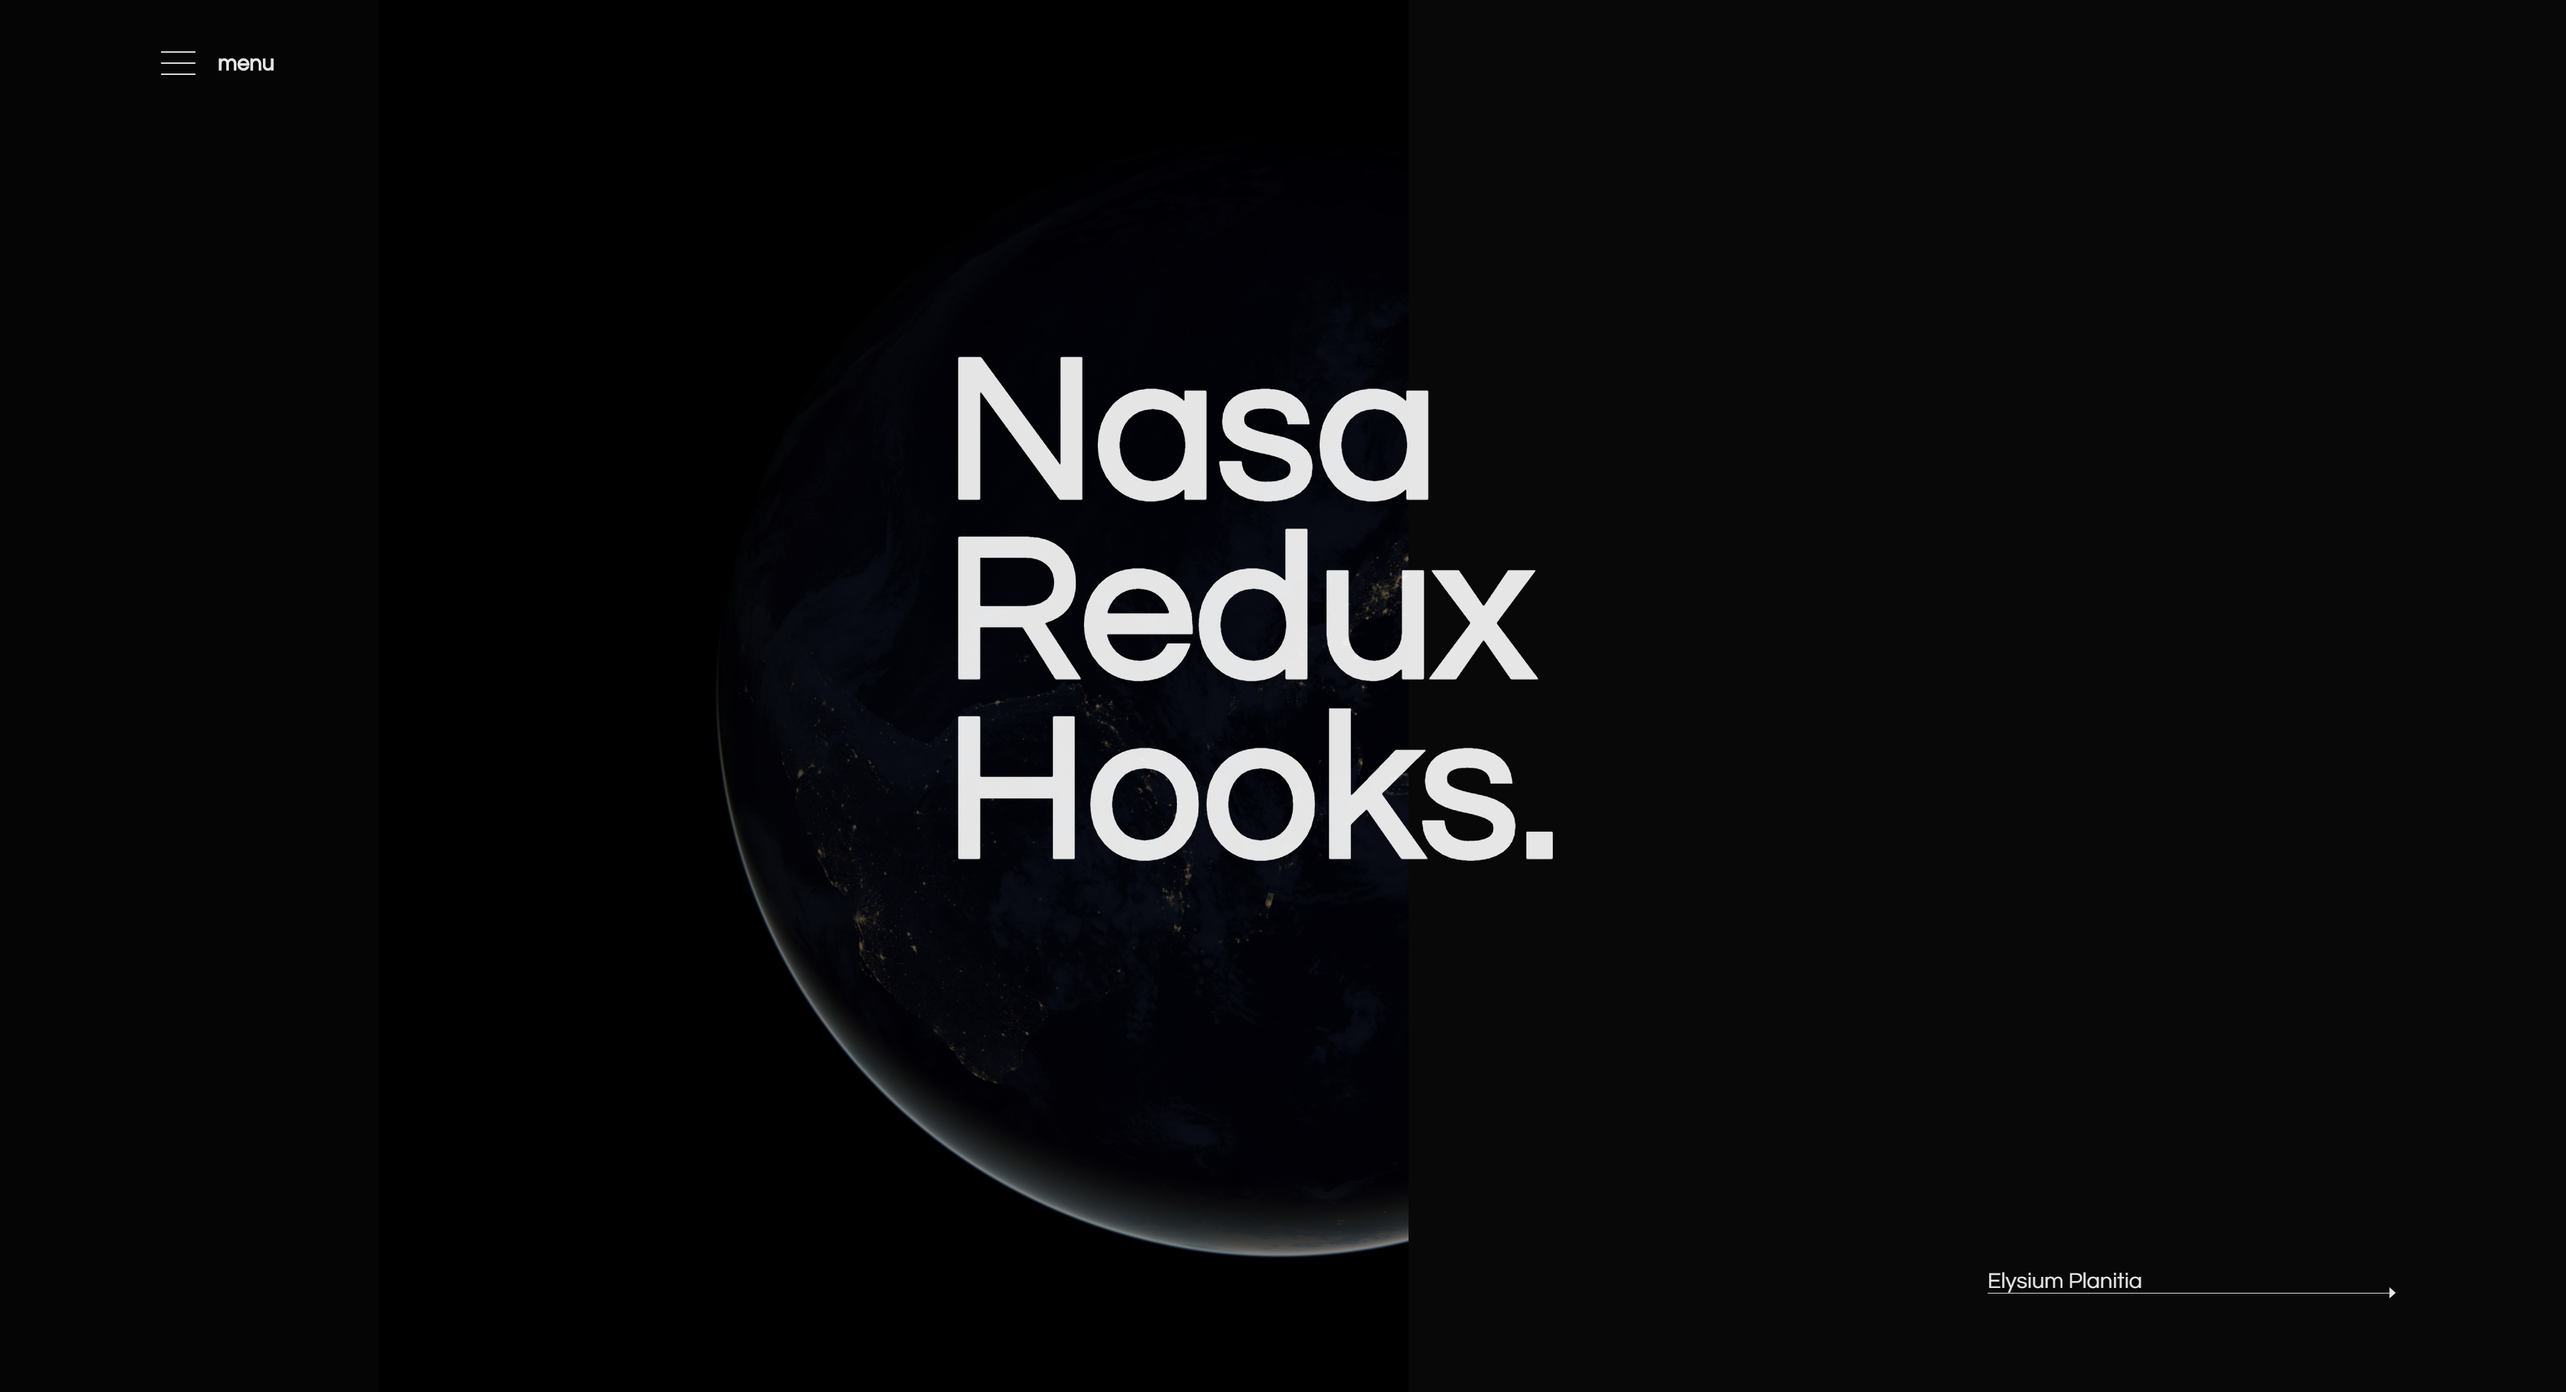
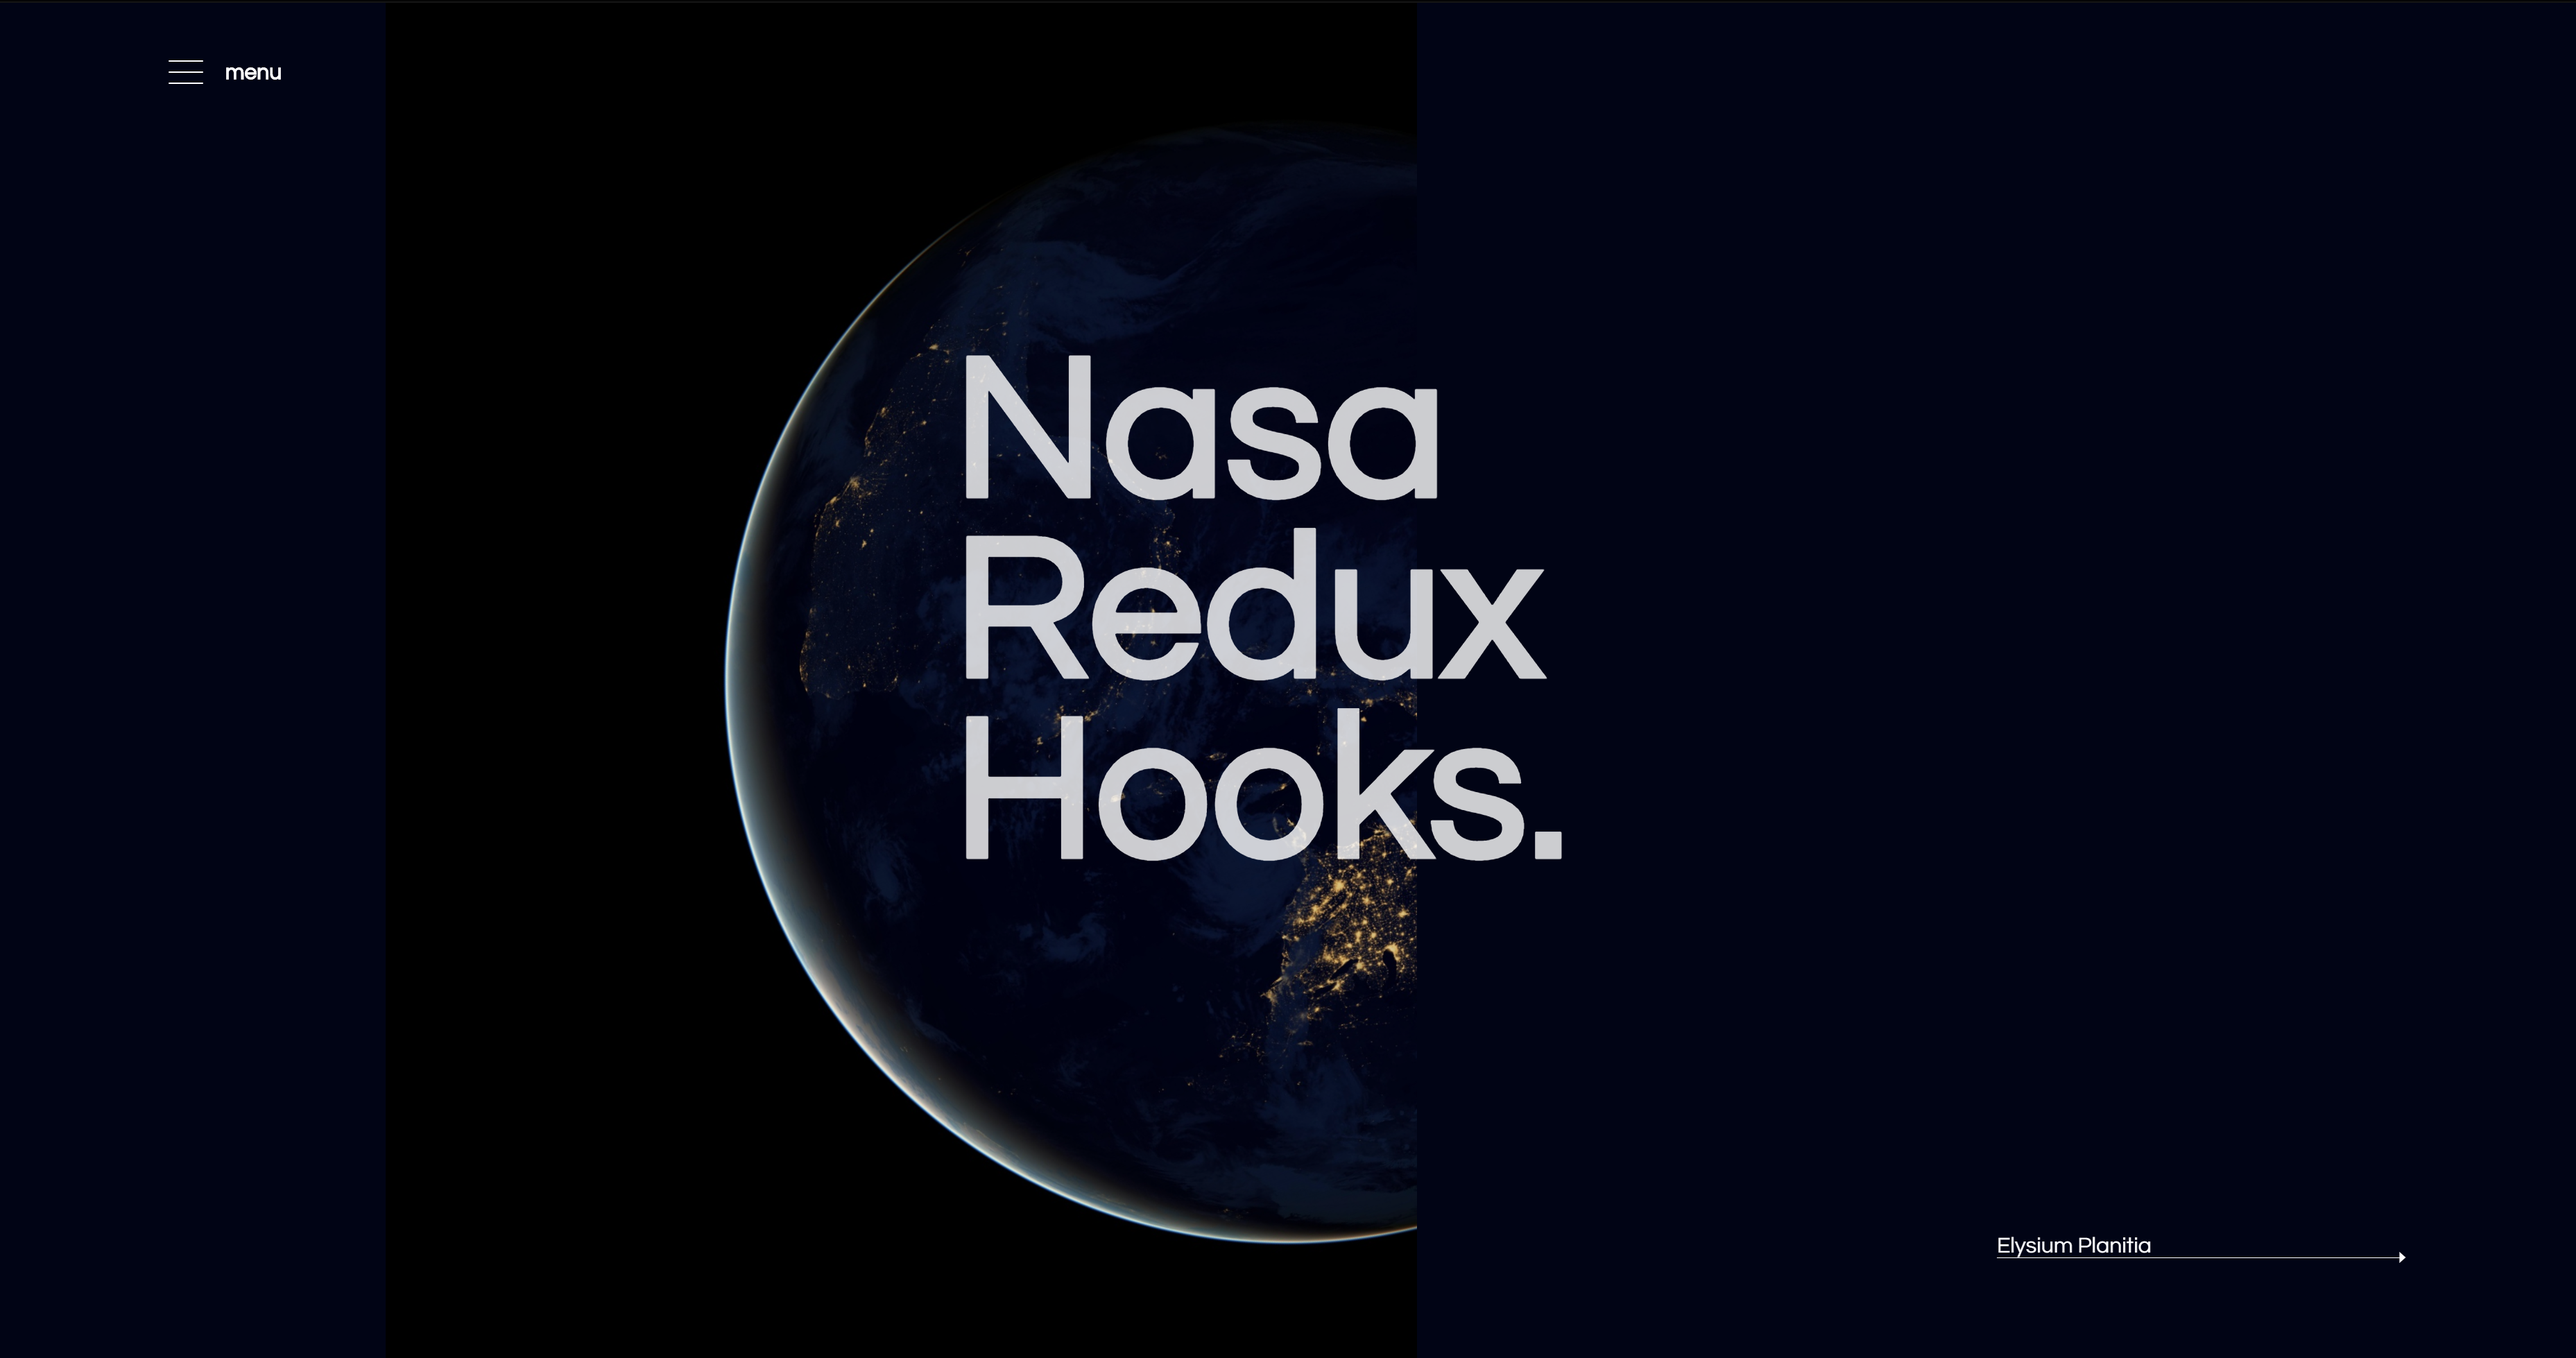
changed project#5 image

diff --git a/index.html b/index.html
@@ -113,8 +113,7 @@
                         <br />
                         <div class="headers">
                             <h1 class="anaglyph texteffect">
-                                The<br />
-                                <span class="secondary">Drop</span>
+                                The Drop
                             </h1>
                             <div class="linksIcons">
                                 <a href="#" target="_blank"
@@ -266,7 +265,57 @@
                     <div class="project4 panel">
                         <br />
                         <div class="headers">
-                            <h1 class="anaglyph4">PokeReact</h1>
+                            <h1 class="anaglyph4">
+                                Nasa Redux Hooks
+                            </h1>
+                            <div class="linksIcons">
+                                <a
+                                    href="https://github.com/DhirenAtodaria/nasa-project"
+                                    target="_blank"
+                                    ><i class="fab fa-github-square"></i
+                                ></a>
+                                <a
+                                    href="https://dhirenatodaria.github.io/nasa-project/"
+                                    target="_blank"
+                                    ><i class="fas fa-link"></i
+                                ></a>
+                            </div>
+                        </div>
+                        <p>
+                            This is an app where I practice modern technology
+                            tools, such as Redux for state management, and React
+                            Hooks. Also, I've spent time practicing my design
+                            and animation skills. The app uses React-Spring, a
+                            physics based animation library for some of the
+                            components (Infinite Slider). Made with
+                            <strong>React</strong>, <strong>Redux</strong>,
+                            <strong>React Springs</strong> and
+                            <strong>GSAP</strong>.
+                        </p>
+                        <div class="imgContainer">
+                            <div class="p1Img"></div>
+                            <div class="p1Skills">
+                                <div class="titles">Technologies Used</div>
+                                <div class="reactskill skills">
+                                    <div class="logo1 logos"></div>
+                                </div>
+                                <div class="fbskill skills">
+                                    <div class="logo2 logos"></div>
+                                </div>
+                                <div class="askill skills">
+                                    <div class="logo3 logos"></div>
+                                </div>
+                                <div class="jskill skills">
+                                    <div class="logo4 logos"></div>
+                                </div>
+                            </div>
+                        </div>
+                    </div>
+
+                    <div class="project5 panel">
+                        <br />
+                        <div class="headers">
+                            <h1 class="anaglyph5">PokeReact</h1>
                             <div class="linksIcons">
                                 <a
                                     href="https://github.com/DhirenAtodaria/Poke-react"
@@ -302,10 +351,10 @@
                         </div>
                     </div>
 
-                    <div class="project5 panel">
+                    <div class="project6 panel">
                         <br />
                         <div class="headers">
-                            <h1 class="anaglyph5">
+                            <h1 class="anaglyph6">
                                 OMDB <br /><span class="secondary"
                                     >Movie Search</span
                                 >
@@ -347,10 +396,10 @@
                         </div>
                     </div>
 
-                    <div class="project6 panel">
+                    <div class="project7 panel">
                         <br />
                         <div class="headers">
-                            <h1 class="anaglyph6">
+                            <h1 class="anaglyph7">
                                 Millionaire <br /><span class="secondary"
                                     >Quiz</span
                                 >
@@ -377,44 +426,6 @@
                             lifelines. The game provides a fun and interesting
                             experience to the user.
                         </p>
-                        <div class="imgContainer">
-                            <div class="p1Img"></div>
-                            <div class="p1Skills">
-                                <div class="titles">Technologies Used</div>
-                                <div class="reactskill skills">
-                                    <div class="logo1 logos"></div>
-                                </div>
-                                <div class="fbskill skills">
-                                    <div class="logo2 logos"></div>
-                                </div>
-                                <div class="askill skills">
-                                    <div class="logo3 logos"></div>
-                                </div>
-                                <div class="jskill skills">
-                                    <div class="logo4 logos"></div>
-                                </div>
-                            </div>
-                        </div>
-                    </div>
-
-                    <div class="project7 panel">
-                        <br />
-                        <div class="headers">
-                            <h1 class="anaglyph7">
-                                Nasa <br /><span class="secondary"
-                                    >Coming Soon</span
-                                >
-                            </h1>
-                            <div class="linksIcons">
-                                <a href="#" target="_blank"
-                                    ><i class="fab fa-github-square"></i
-                                ></a>
-                                <a href="#" target="_blank"
-                                    ><i class="fas fa-link"></i
-                                ></a>
-                            </div>
-                        </div>
-                        <p>Coming Soon</p>
                         <div class="imgContainer">
                             <div class="p1Img"></div>
                             <div class="p1Skills">

diff --git a/styles.scss b/styles.scss
@@ -386,12 +386,6 @@ nav {
     -ms-perspective: 500px;
     perspective: 500px;
 
-    // h1 {
-    //     margin: 0;
-    //     font-size: 40px;
-    //     color: white;
-    // }
-
     #slideContainer {
         width: 800%;
         height: 100%;
@@ -681,7 +675,7 @@ nav {
     .project4 {
         .imgContainer {
             .p1Img {
-                background-image: url("./projectimages/pokereact/pokereact.png");
+                background-image: url("./projectimages/nasa/nrh.png");
             }
 
             .p1Skills {
@@ -693,7 +687,19 @@ nav {
 
                 .fbskill {
                     .logo2 {
-                        background-image: url("./skills/fblogo.png");
+                        background-image: url("./skills/redux.png");
+                    }
+                }
+
+                .askill {
+                    .logo3 {
+                        background-image: url("");
+                    }
+                }
+
+                .jskill {
+                    .logo4 {
+                        background-image: url("");
                     }
                 }
             }
@@ -703,7 +709,7 @@ nav {
     .project5 {
         .imgContainer {
             .p1Img {
-                background-image: url("./projectimages/omdb/omdb.png");
+                background-image: url("./projectimages/pokereact/pokereact.png");
             }
 
             .p1Skills {
@@ -725,7 +731,7 @@ nav {
     .project6 {
         .imgContainer {
             .p1Img {
-                background-image: url("./projectimages/munnyaire/munnaire.png");
+                background-image: url("./projectimages/omdb/omdb.png");
             }
 
             .p1Skills {
@@ -747,31 +753,19 @@ nav {
     .project7 {
         .imgContainer {
             .p1Img {
-                background-image: url("");
+                background-image: url("./projectimages/munnyaire/munnaire.png");
             }
 
             .p1Skills {
                 .reactskill {
                     .logo1 {
-                        background-image: url("");
+                        background-image: url("./skills/rlogo.png");
                     }
                 }
 
                 .fbskill {
                     .logo2 {
-                        background-image: url("");
-                    }
-                }
-
-                .askill {
-                    .logo3 {
-                        background-image: url("");
-                    }
-                }
-
-                .jskill {
-                    .logo4 {
-                        background-image: url("");
+                        background-image: url("./skills/fblogo.png");
                     }
                 }
             }

diff --git a/styles.css b/styles.css
@@ -799,7 +799,7 @@ nav .progress-container .progress-bar {
 }
 
 .three .project4 .imgContainer .p1Img {
-  background-image: url("./projectimages/pokereact/pokereact.png");
+  background-image: url("./projectimages/nasa/nrh.png");
 }
 
 .three .project4 .imgContainer .p1Skills .reactskill .logo1 {
@@ -807,11 +807,19 @@ nav .progress-container .progress-bar {
 }
 
 .three .project4 .imgContainer .p1Skills .fbskill .logo2 {
-  background-image: url("./skills/fblogo.png");
+  background-image: url("./skills/redux.png");
+}
+
+.three .project4 .imgContainer .p1Skills .askill .logo3 {
+  background-image: url("");
+}
+
+.three .project4 .imgContainer .p1Skills .jskill .logo4 {
+  background-image: url("");
 }
 
 .three .project5 .imgContainer .p1Img {
-  background-image: url("./projectimages/omdb/omdb.png");
+  background-image: url("./projectimages/pokereact/pokereact.png");
 }
 
 .three .project5 .imgContainer .p1Skills .reactskill .logo1 {
@@ -823,7 +831,7 @@ nav .progress-container .progress-bar {
 }
 
 .three .project6 .imgContainer .p1Img {
-  background-image: url("./projectimages/munnyaire/munnaire.png");
+  background-image: url("./projectimages/omdb/omdb.png");
 }
 
 .three .project6 .imgContainer .p1Skills .reactskill .logo1 {
@@ -835,23 +843,15 @@ nav .progress-container .progress-bar {
 }
 
 .three .project7 .imgContainer .p1Img {
-  background-image: url("");
+  background-image: url("./projectimages/munnyaire/munnaire.png");
 }
 
 .three .project7 .imgContainer .p1Skills .reactskill .logo1 {
-  background-image: url("");
+  background-image: url("./skills/rlogo.png");
 }
 
 .three .project7 .imgContainer .p1Skills .fbskill .logo2 {
-  background-image: url("");
-}
-
-.three .project7 .imgContainer .p1Skills .askill .logo3 {
-  background-image: url("");
-}
-
-.three .project7 .imgContainer .p1Skills .jskill .logo4 {
-  background-image: url("");
+  background-image: url("./skills/fblogo.png");
 }
 
 .four {
